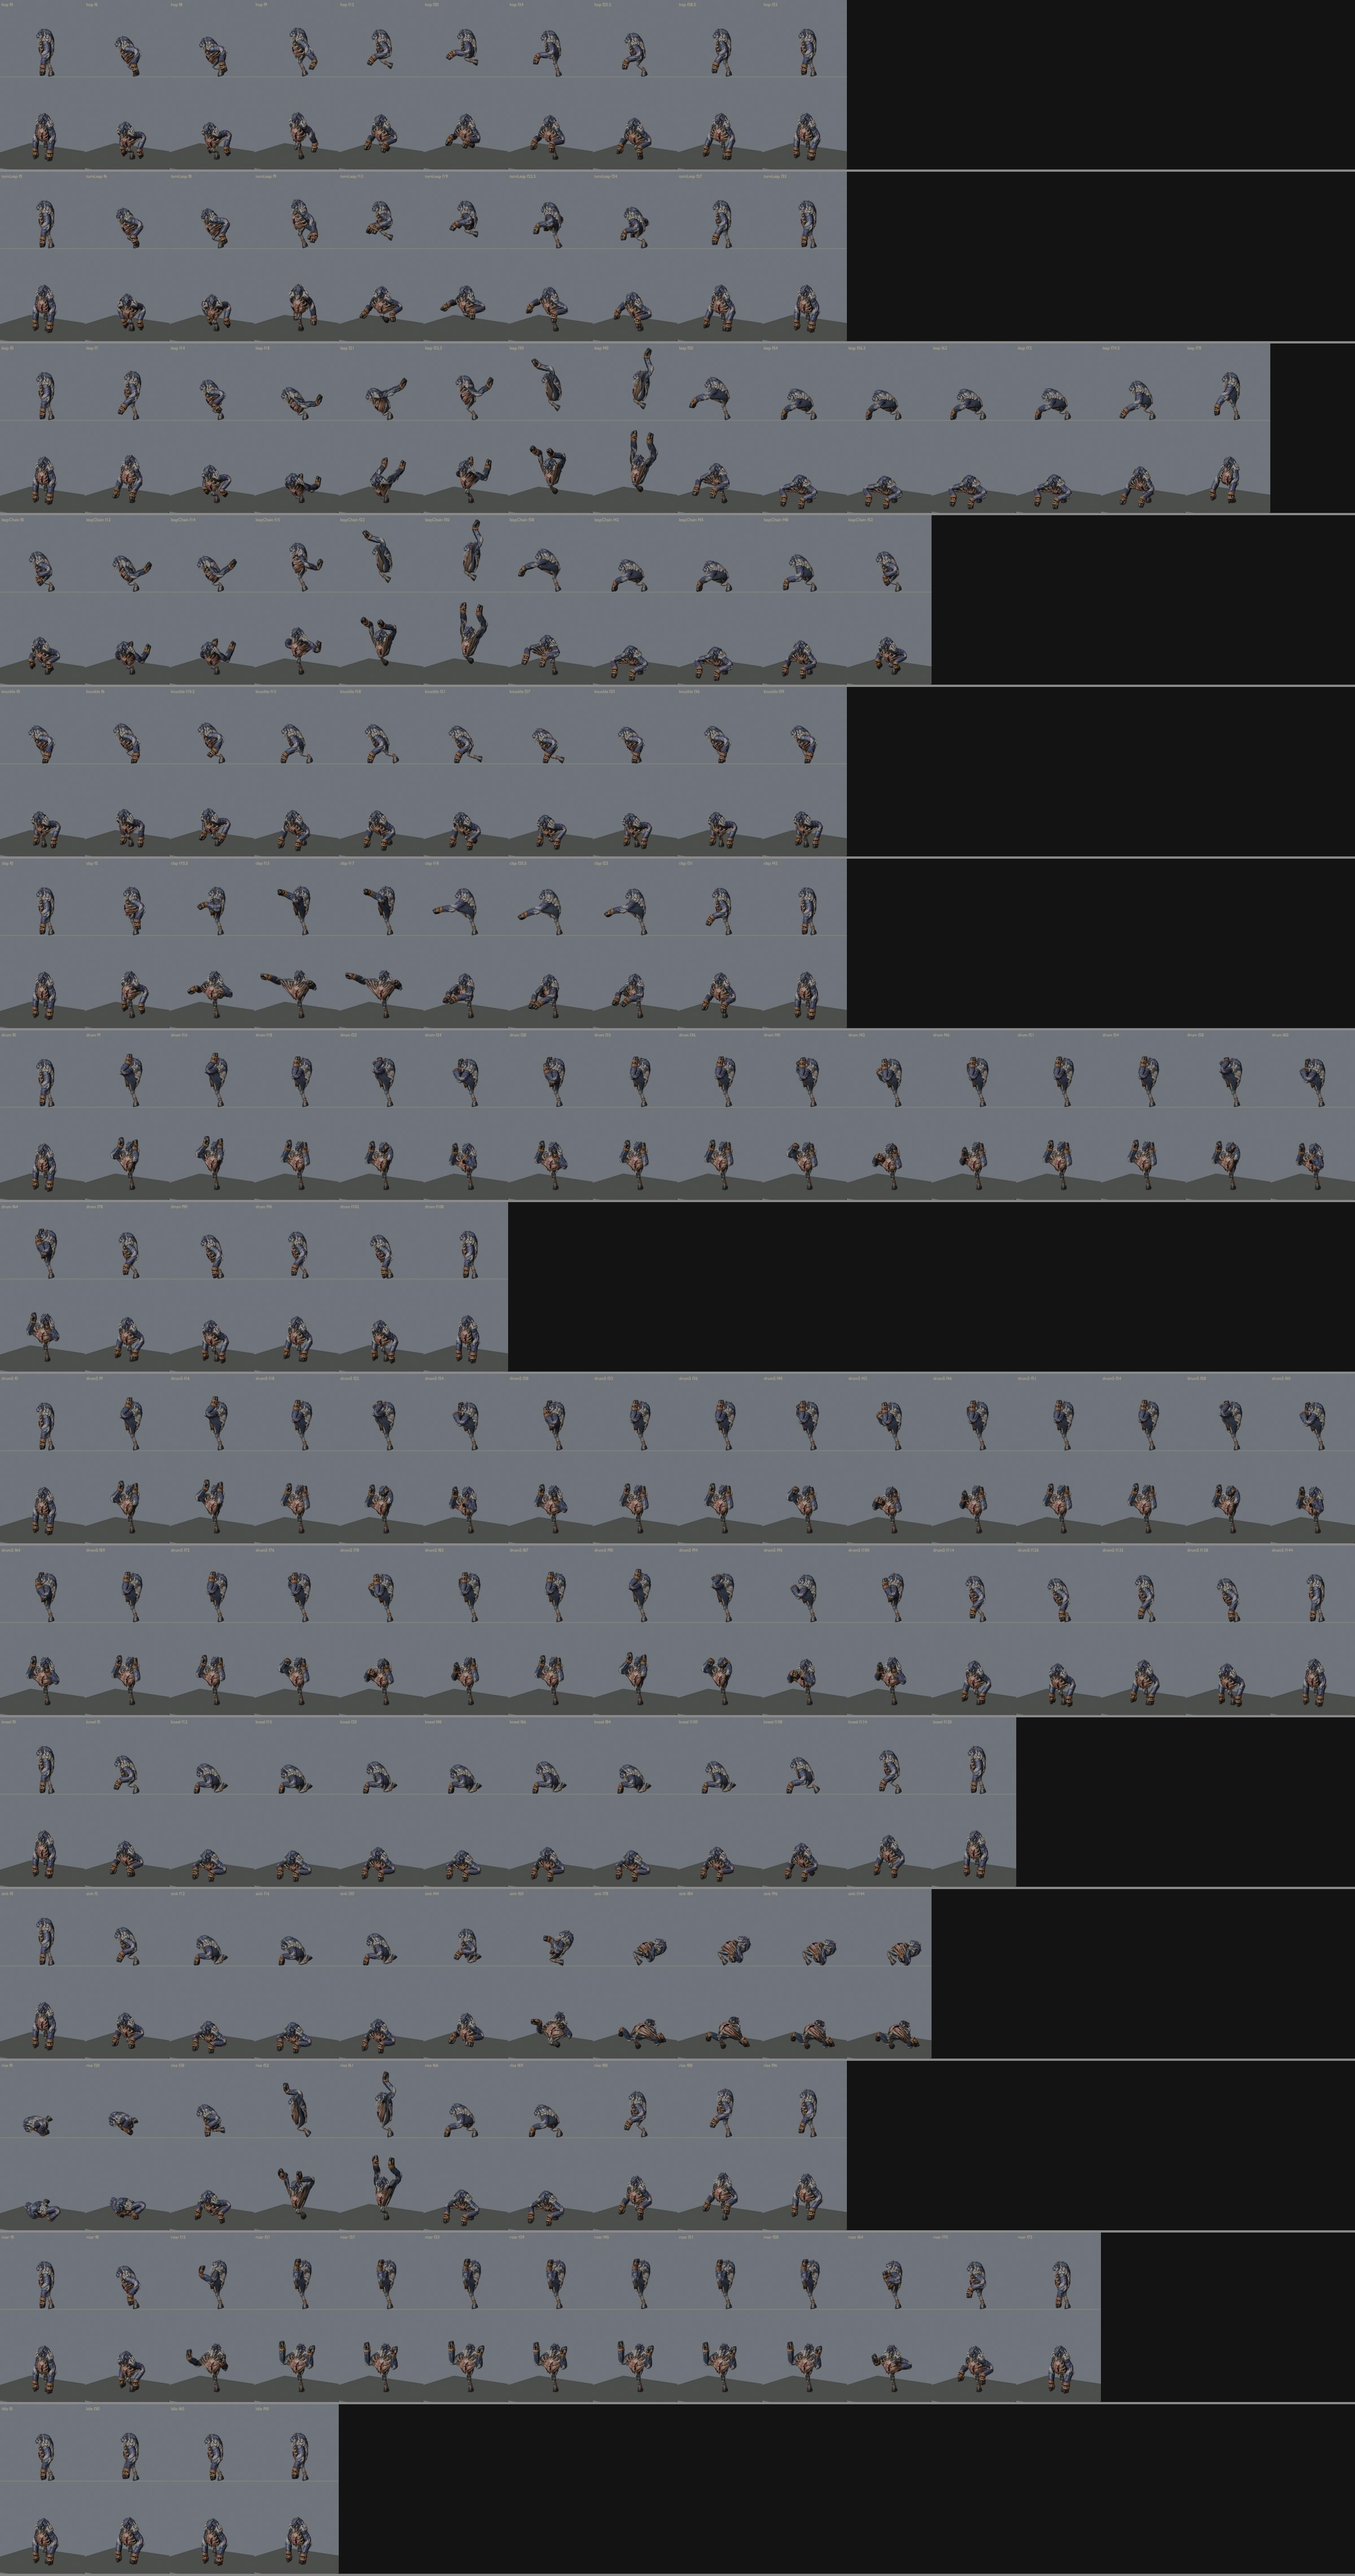
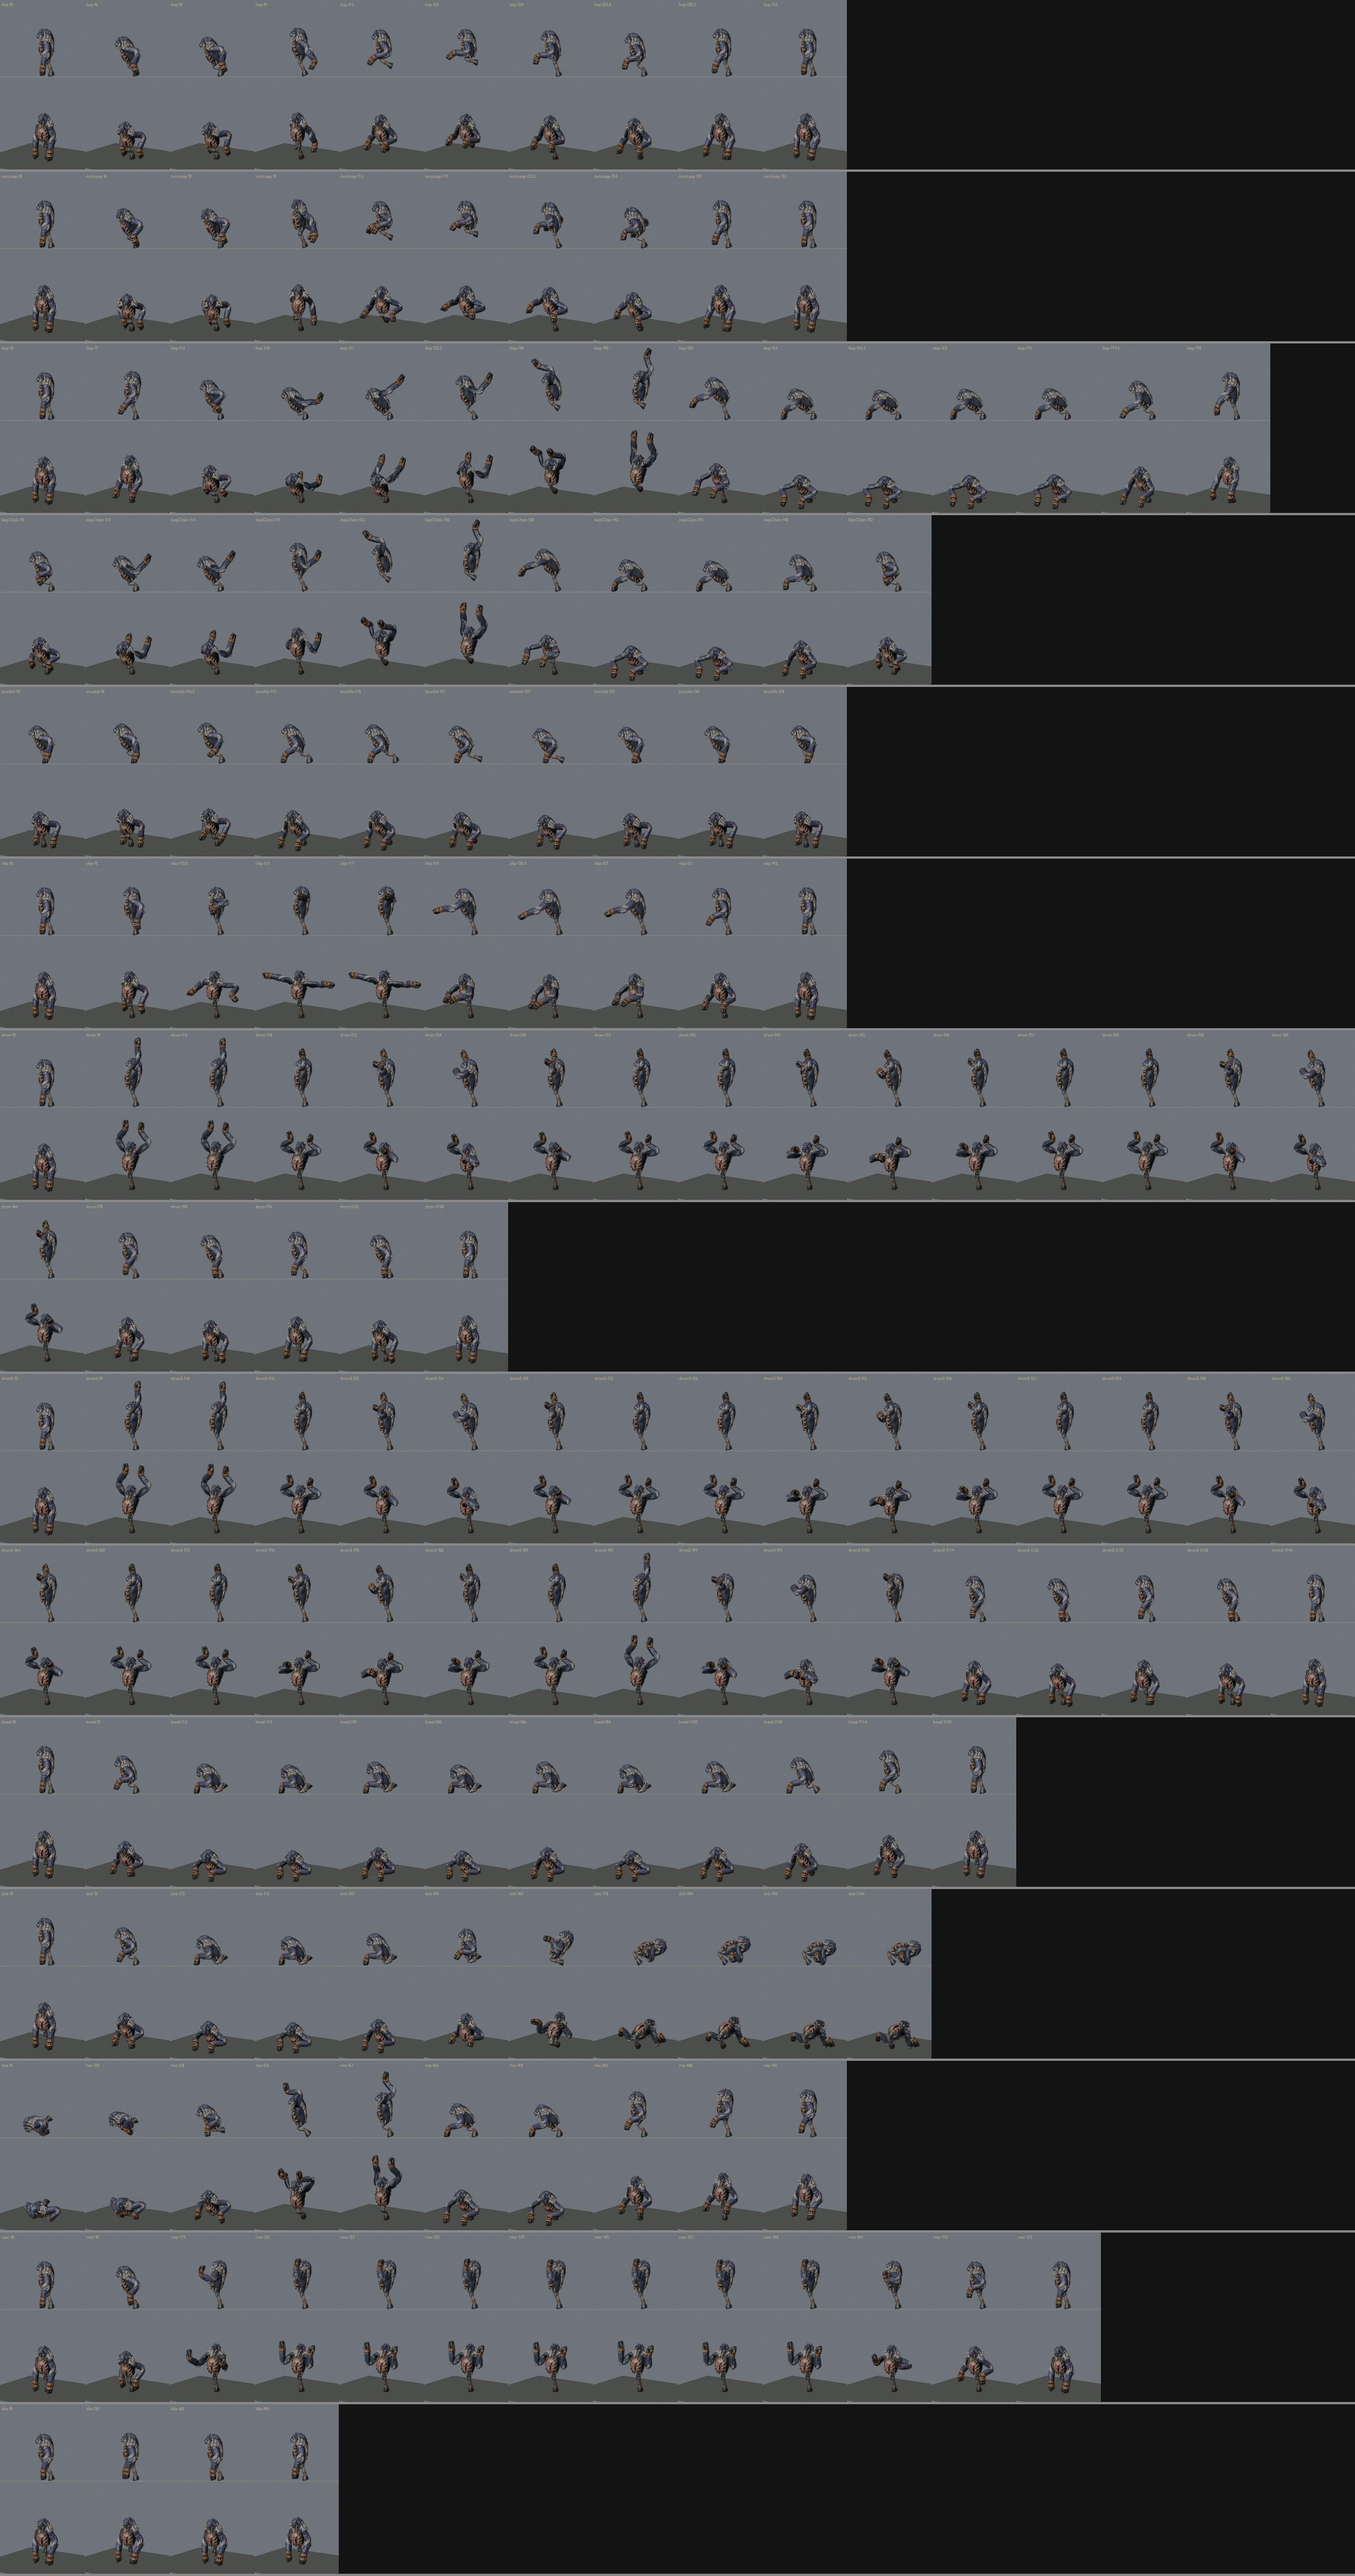
fix(unity): 夔重蒙皮后的收尾 —— 手 K 恢复侧平举（雷掌「T」字张臂、捶胸双拳过头、吼「W」字），体检去掉侧腹单独统计改量 p99 拉伸；Prefab 布娃娃碰撞体随新蒙皮重算（第四章移植 B1 路）

diff --git a/art/source/characters/SK_Boss_Kui/anim/kui_anims.py b/art/source/characters/SK_Boss_Kui/anim/kui_anims.py
@@ -136,7 +136,7 @@ def mod(p: dict, **kw) -> dict:
 BASE = P()
 
 # ── 小跳 hop / 转身跳 turnLeap（§2.1 / §2.4）──
-# 双臂的大动作一律前后摆、肘往后收（POLE_B）：侧腹带手臂权重，往正侧面张开会拉出膜（见体检的 web）
+# 肘尖：大动作多用 POLE_B（往后收），看着更沉；侧腹的权重在 native_build 7 重蒙皮后已不再被手臂拉成膜
 HOP_CROUCH = P(drop=0.55, pitch=18, spine=4, chest=2, head=6, stretch=-0.03,
                arms=A(1.3, -1.4, 0.6, ref="w", aim=(0, -0.45, -1), pole=POLE_B))
 HOP_HOLD = mod(HOP_CROUCH, drop=0.6, pitch=19, arms=A(1.3, -1.65, 0.7, ref="w", aim=(0, -0.5, -1), pole=POLE_B))
@@ -153,8 +153,8 @@ ARM_BACKUP = (0.3, 0.2, -1.0)    # 手臂甩到身后上方时肘尖朝下
 LEAP_ANTIC = P(pitch=-8, chest=-4, head=-6, stretch=0.04, arms=A(1.35, 0.9, 0.6, pole=POLE_B))
 LEAP_DOWN = P(drop=0.6, pitch=18, spine=3, head=6, stretch=-0.02, arms=A(1.35, -1.6, 1.6, ref="w", pole=POLE_B))
 LEAP_DEEP = P(drop=1.1, pitch=30, spine=6, chest=4, head=14, stretch=-0.05,
-              arms=A(1.35, -2.6, 5.0, ref="w", aim=(0, -0.5, 0.85), pole=ARM_BACKUP))
-LEAP_HOLD = mod(LEAP_DEEP, drop=1.15, pitch=31, head_roll=2, arms=A(1.4, -2.8, 5.25, ref="w", aim=(0, -0.55, 0.83), pole=ARM_BACKUP))
+              arms=A(1.6, -2.5, 5.6, ref="w", aim=(0.05, -0.5, 0.85), pole=ARM_BACKUP))
+LEAP_HOLD = mod(LEAP_DEEP, drop=1.15, pitch=31, head_roll=2, arms=A(1.65, -2.7, 5.85, ref="w", aim=(0.05, -0.55, 0.83), pole=ARM_BACKUP))
 LEAP_PUSH = P(drop=0.0, pitch=6, spine=-4, chest=-4, head=-6, stretch=0.08, toe=12,
               arms=A(1.3, -1.6, 8.0, ref="w", pole=(0.3, -0.6, -0.6)))
 LEAP_TUCK = P(drop=-0.05, pitch=4, spine=6, chest=2, head=6, plant=0, thigh=-95, shin=35, hoof=45, arms=A(1.3, 1.9, 7.8, pole=POLE_B))
@@ -170,18 +170,18 @@ LEAP_PULL = P(drop=0.55, pitch=26, spine=4, head=4, arms=A(1.45, 2.6, 0.7, ref="
 
 CH_START = P(drop=0.55, pitch=22, spine=3, head=8, arms=A(1.4, -0.6, 1.0, ref="w", pole=POLE_B))
 CH_DEEP = P(drop=0.83, pitch=26, spine=5, chest=3, head=12, stretch=-0.04,
-            arms=A(1.35, -2.6, 3.9, ref="w", aim=(0, -0.6, 0.75), pole=ARM_BACKUP))
-CH_HOLD = mod(CH_DEEP, drop=0.86, pitch=27, arms=A(1.4, -2.8, 4.1, ref="w", aim=(0, -0.65, 0.7), pole=ARM_BACKUP))
+            arms=A(1.55, -2.4, 5.0, ref="w", aim=(0.05, -0.5, 0.85), pole=ARM_BACKUP))
+CH_HOLD = mod(CH_DEEP, drop=0.86, pitch=27, arms=A(1.6, -2.6, 5.25, ref="w", aim=(0.05, -0.55, 0.83), pole=ARM_BACKUP))
 CH_PUSH = mod(LEAP_PUSH, stretch=0.07)
 CH_LAND = mod(LEAP_LAND, drop=0.85, pitch=38)
 CH_OVER = mod(CH_LAND, drop=0.93, pitch=40, stretch=-0.07)
 CH_PULL = P(drop=0.7, pitch=30, spine=4, head=8, arms=A(1.45, 1.4, 0.8, ref="w", pole=POLE_B))
 
-# ── 雷掌 clap（§2.6）：张臂改成斜前方约 45°（正侧平举会把侧腹拉成膜），剪影仍是「门户大开」──
+# ── 雷掌 clap（§2.6）：双臂侧平举张到最开（剪影「T」、胸前空门大开）→ 两掌在身前合拢 ──
 CLAP_ANTIC = P(pitch=-6, chest=-2, head=-2, arms=A(1.35, -1.4, 0.8, pole=POLE_B))
-CLAP_RISE = P(pitch=-6, chest=-5, head=-5, arms=A(2.4, 2.0, 2.9, clav=(4, 0), pole=POLE_B))
-CLAP_WIDE = P(pitch=-6, chest=-8, head=-8, stretch=0.03, arms=A(3.9, 3.0, 4.6, aim=(0.72, 0.68, 0.05), clav=(8, -4), pole=(0.3, -1, -0.4)))
-CLAP_HOLD = mod(CLAP_WIDE, chest=-9, head=-9, arms=A(4.0, 2.85, 4.65, aim=(0.74, 0.66, 0.06), clav=(9, -5), pole=(0.3, -1, -0.4)))
+CLAP_RISE = P(pitch=-6, chest=-5, head=-5, arms=A(3.7, 0.1, 2.6, clav=(6, -4)))
+CLAP_WIDE = P(pitch=-6, chest=-8, head=-8, stretch=0.03, arms=A(5.35, 0.2, 4.75, aim=(1, 0.05, 0.02), clav=(10, -8)))
+CLAP_HOLD = mod(CLAP_WIDE, chest=-9, head=-9, arms=A(5.35, -0.15, 4.8, aim=(1, -0.05, 0.03), clav=(11, -10)))
 CLAP_HIT = P(pitch=10, spine=5, chest=0, head=4, stretch=0.04,
              arms=A(0.44, 4.25, 4.0, aim=(-0.12, 1, -0.05), pole=(1.0, 0.0, -0.6), clav=(4, 16)))
 CLAP_OVER = P(pitch=12, spine=6, chest=1, head=6, stretch=0.02,
@@ -189,15 +189,14 @@ CLAP_OVER = P(pitch=12, spine=6, chest=1, head=6, stretch=0.02,
 CLAP_AFTER = P(pitch=9, spine=4, head=4, arms=A(0.7, 4.1, 3.4, aim=(-0.05, 1, -0.3), pole=(1.0, 0.0, -0.6), clav=(2, 12)))
 CLAP_RETRACT = P(pitch=4, spine=2, head=2, arms=A(1.5, 2.0, 1.4, pole=POLE_B))
 
-# ── 捶胸引雷 drum / drum5（§2.7）：大猩猩式捶胸——上臂垂在身前、肘往下，前臂竖起、拳举到头边；捶时拳往回砸鼓面 ──
-DRUM_POLE = (0.55, 0.35, -1.0)
-DRUM_UP_ARM = A(1.05, 1.1, 6.25, aim=(-0.05, 0.15, 1), pole=DRUM_POLE, clav=(6, 4))
-DRUM_COCK = A(1.15, 1.25, 5.85, aim=(-0.1, 0.2, 1), pole=DRUM_POLE, clav=(5, 4))
-DRUM_SMEAR = A(0.85, 1.8, 4.8, aim=(-0.3, 0.7, -0.5), pole=DRUM_POLE, clav=(3, 6))
-DRUM_HIT = A(0.32, 1.12, 3.65, aim=(-0.45, -0.55, -0.7), pole=(0.6, 0.25, -1), clav=(2, 8))
-DRUM_REBOUND = A(1.0, 1.55, 5.0, aim=(-0.1, 0.4, 0.8), pole=DRUM_POLE, clav=(4, 5))
+# ── 捶胸引雷 drum / drum5（§2.7）：人立、双拳举过头握紧 → 左右拳交替从头顶砸下来贴住鼓面（另一只拳举在头顶上等着）──
+DRUM_UP_ARM = A(1.25, 0.6, 8.5, clav=(16, 0), pole=(1, -0.3, 0))
+DRUM_COCK = A(1.75, 1.0, 6.9, clav=(12, 2), pole=(1, -0.2, -0.3))
+DRUM_SMEAR = A(1.15, 1.9, 5.0, clav=(6, 6), pole=(1, 0.1, -0.5))
+DRUM_HIT = A(0.32, 1.12, 3.65, aim=(-0.45, -0.55, -0.7), clav=(2, 10), pole=(1, 0.2, -0.6))
+DRUM_REBOUND = A(1.6, 1.7, 5.4, clav=(8, 6), pole=(1, 0, -0.4))
 DRUM_REAR = P(pitch=-10, spine=-3, chest=-4, head=-10, stretch=0.04, arms=DRUM_UP_ARM)
-DRUM_CLENCH = mod(DRUM_REAR, pitch=-11, chest=-6, head=-12, arms=A(1.0, 1.15, 6.35, aim=(-0.08, 0.15, 1), pole=DRUM_POLE, clav=(7, 4)))
+DRUM_CLENCH = mod(DRUM_REAR, pitch=-11, chest=-6, head=-12, arms=A(1.2, 0.8, 8.4, clav=(17, 0), pole=(1, -0.3, 0)))
 DRUM_DOWN = P(drop=0.1, pitch=6, chest=3, head=6, arms=A(1.4, 0.9, 0.7, pole=POLE_B))
 DRUM_PANT_OUT = P(drop=0.18, pitch=12, spine=4, chest=6, head=14, stretch=-0.03, arms=A(1.35, 0.9, 0.45, pole=POLE_B))
 DRUM_PANT_IN = P(drop=0.08, pitch=6, spine=1, chest=-2, head=6, stretch=0.02, arms=A(1.4, 0.8, 0.5, pole=POLE_B))
@@ -273,7 +272,7 @@ RISE_STAND = P(drop=0.2, pitch=4, chest=-4, head=-12, arms=A(1.5, 1.3, 1.0, ref=
 RISE_ROAR = P(pitch=-6, chest=-6, neck=-4, head=-28, stretch=0.03, arms=A(1.7, 0.8, 0.8, pole=POLE_B))
 RISE_END = P(pitch=-2, chest=-2, head=-10, arms=A(1.3, 0.5, 0.35))
 
-# 吼：双臂往前上方张开成 V（不往正侧面），仰头
+# 吼：双拳举到头两边、肘往下（「W」字剪影），仰头挺胸（登场特写镜头里读得清）
 ROAR_GATHER = P(drop=0.25, pitch=12, spine=4, chest=6, head=18, stretch=-0.03, arms=A(1.05, 0.7, 1.1, pole=POLE_B))
 ROAR_POLE = (0.7, 0.3, -1.0)
 ROAR_A = P(pitch=-8, spine=-4, chest=-8, neck=-6, head=-38, stretch=0.05, arms=A(2.35, 1.2, 5.75, aim=(0.3, 0.15, 1), clav=(10, 2), pole=ROAR_POLE))
@@ -848,14 +847,6 @@ def mesh_groups(mesh):
     cat[(owner == "fist_L") | (owner == "fist_R")] = 1
     cat[owner == "hoof"] = 2
     cat[(owner == "thigh") | (owner == "shin")] = 3
-    # 已知的蒙皮问题：躯干侧腹（|x| 0.4–0.9）同时带手臂和躯干权重，手臂一张开就被拉成膜（模型权重的事，不在动作里修）。
-    # 这些顶点单独统计（web），拉伸比只看其余顶点，量的是动作本身有没有扭麻花 / 撕裂
-    arms_w = {"arm_L", "forearm_L", "fist_L", "arm_R", "forearm_R", "fist_R"}
-    torso_w = {"hips", "spine", "chest", "thigh", "shin", "drum", "neck"}
-    mixed = np.zeros(n, dtype=bool)
-    for v in mesh.data.vertices:
-        w = {vg[g.group]: g.weight for g in v.groups}
-        mixed[v.index] = sum(x for k, x in w.items() if k in arms_w) > 0.1 and sum(x for k, x in w.items() if k in torso_w) > 0.1
     edges = np.empty(len(mesh.data.edges) * 2, dtype=np.int32)
     mesh.data.edges.foreach_get("vertices", edges)
     edges = edges.reshape(-1, 2)
@@ -864,20 +855,19 @@ def mesh_groups(mesh):
     rest = rest.reshape(-1, 3)
     rl = np.linalg.norm(rest[edges[:, 0]] - rest[edges[:, 1]], axis=1)
     keep = rl > 0.02
-    edges, rl = edges[keep], rl[keep]
-    web = mixed[edges[:, 0]] | mixed[edges[:, 1]]
-    return cat, edges, rl, owner, web
+    return cat, edges[keep], rl[keep], owner
 
 
 def check_clip(arm, mesh, groups, name: str, clip: dict, act, infos: dict) -> dict:
     import numpy as np
-    cat, edges, rl, owner, web = groups
+    cat, edges, rl, owner = groups
     sc = bpy.context.scene
     arm.animation_data.action = act
     n = len(mesh.data.vertices)
     co = np.empty(n * 3)
-    out = {"minz": {"fist": (9, 0), "hoof": (9, 0), "leg": (9, 0), "body": (9, 0)}, "stretch": (0, 0, ""), "web": (0, 0),
-           "hoof_slide": (0, 0), "fist_slide": (0, 0)}
+    # stretch = 全网格最大边拉伸比（静止边长 > 2 cm）；p99 = 每帧 99 分位拉伸比的最大值；grow = 最大伸长（米）
+    out = {"minz": {"fist": (9, 0), "hoof": (9, 0), "leg": (9, 0), "body": (9, 0)}, "stretch": (0, 0, ""), "p99": (0, 0),
+           "grow": (0, 0), "hoof_slide": (0, 0), "fist_slide": (0, 0)}
     air = clip.get("air")
     names = {0: "body", 1: "fist", 2: "hoof", 3: "leg"}
     for f in range(clip["frames"] + 1):
@@ -894,14 +884,16 @@ def check_clip(arm, mesh, groups, name: str, clip: dict, act, infos: dict) -> di
             if m < out["minz"][nm][0]:
                 out["minz"][nm] = (round(float(m), 3), f)
         dl = np.linalg.norm(p[edges[:, 0]] - p[edges[:, 1]], axis=1)
-        el = dl - rl                       # 伸长量（米）
-        w = float(el[web].max())
-        if w > out["web"][0]:
-            out["web"] = (round(w, 2), f)
-        el[web] = 0
-        i = int(el.argmax())
-        if el[i] > out["stretch"][0]:
-            out["stretch"] = (round(float(el[i]), 3), f, round(float(dl[i] / rl[i]), 1), owner[edges[i, 0]] + "/" + owner[edges[i, 1]])
+        ratio = dl / rl
+        i = int(ratio.argmax())
+        if ratio[i] > out["stretch"][0]:
+            out["stretch"] = (round(float(ratio[i]), 2), f, owner[edges[i, 0]] + "/" + owner[edges[i, 1]])
+        q = float(np.percentile(ratio, 99))
+        if q > out["p99"][0]:
+            out["p99"] = (round(q, 3), f)
+        g = float((dl - rl).max())
+        if g > out["grow"][0]:
+            out["grow"] = (round(g, 3), f)
         # 着地帧的蹄 / 撑地的拳：骨骼实际位置 vs 钉点
         inf = infos[f]
         pbs = arm.pose.bones
